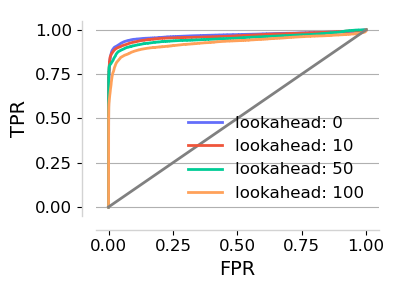
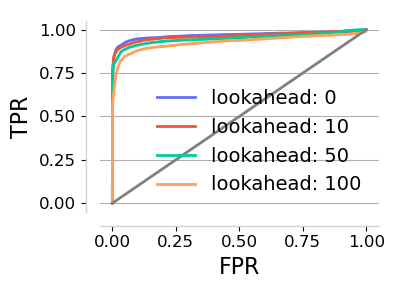
Change figure attributes v02.

diff --git a/src/roc_diff_models.py b/src/roc_diff_models.py
@@ -289,10 +289,10 @@ if __name__ == "__main__":
     #     label="lookahead: 120",
     # )
     ax.plot([0, 1], [0, 1], c="gray", lw=2)
-    ax.legend(fontsize=12, frameon=False)
+    ax.legend(fontsize=14, frameon=False)
     sns.despine(offset=10, trim=False)
-    ax.set_xlabel("FPR", fontsize=14)
-    ax.set_ylabel("TPR", fontsize=14)
+    ax.set_xlabel("FPR", fontsize=16)
+    ax.set_ylabel("TPR", fontsize=16)
     # ax.set_title("XGBoost", fontsize=16)
     plt.gca().spines["left"].set_color("lightgrey")
     plt.gca().spines["bottom"].set_color("lightgrey")
